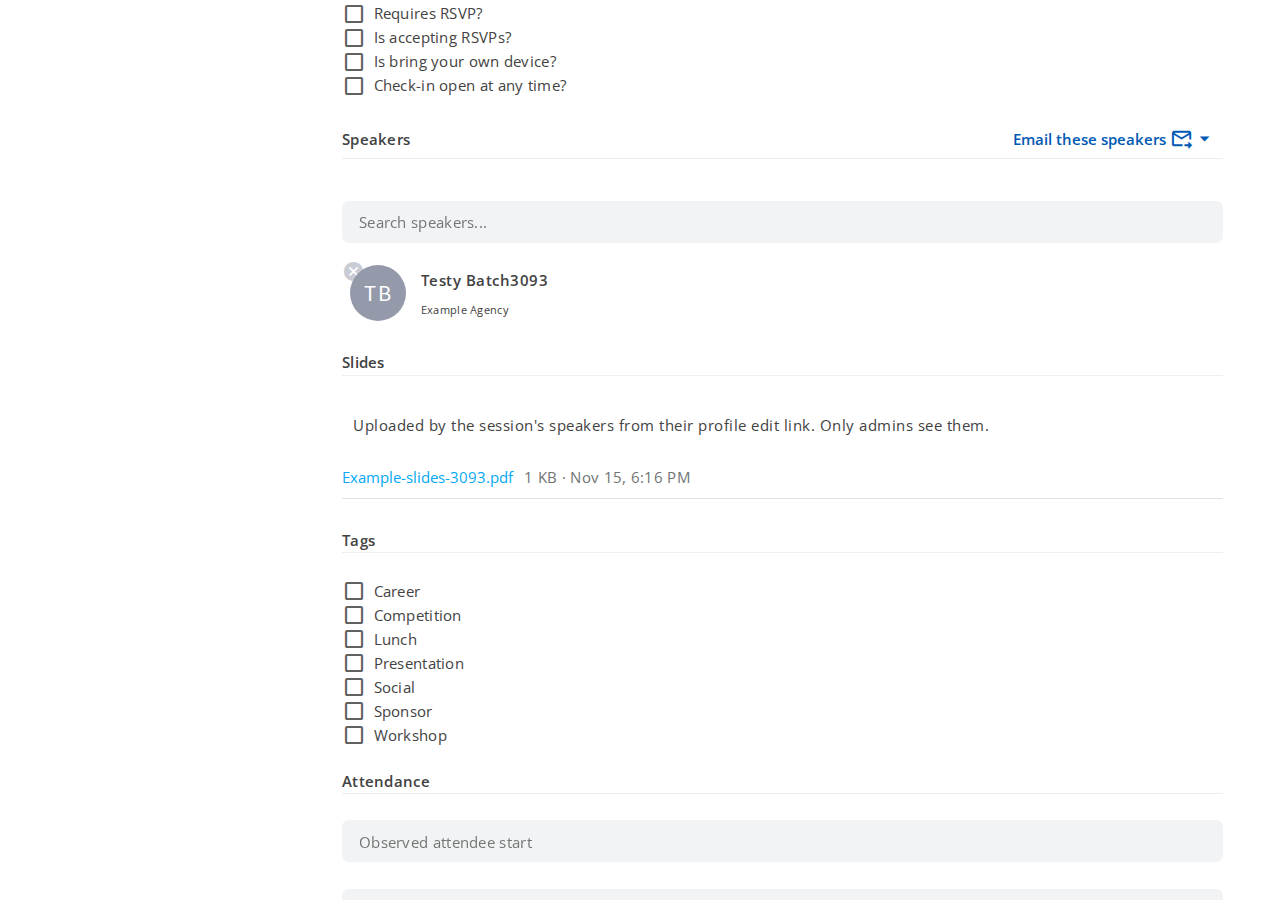
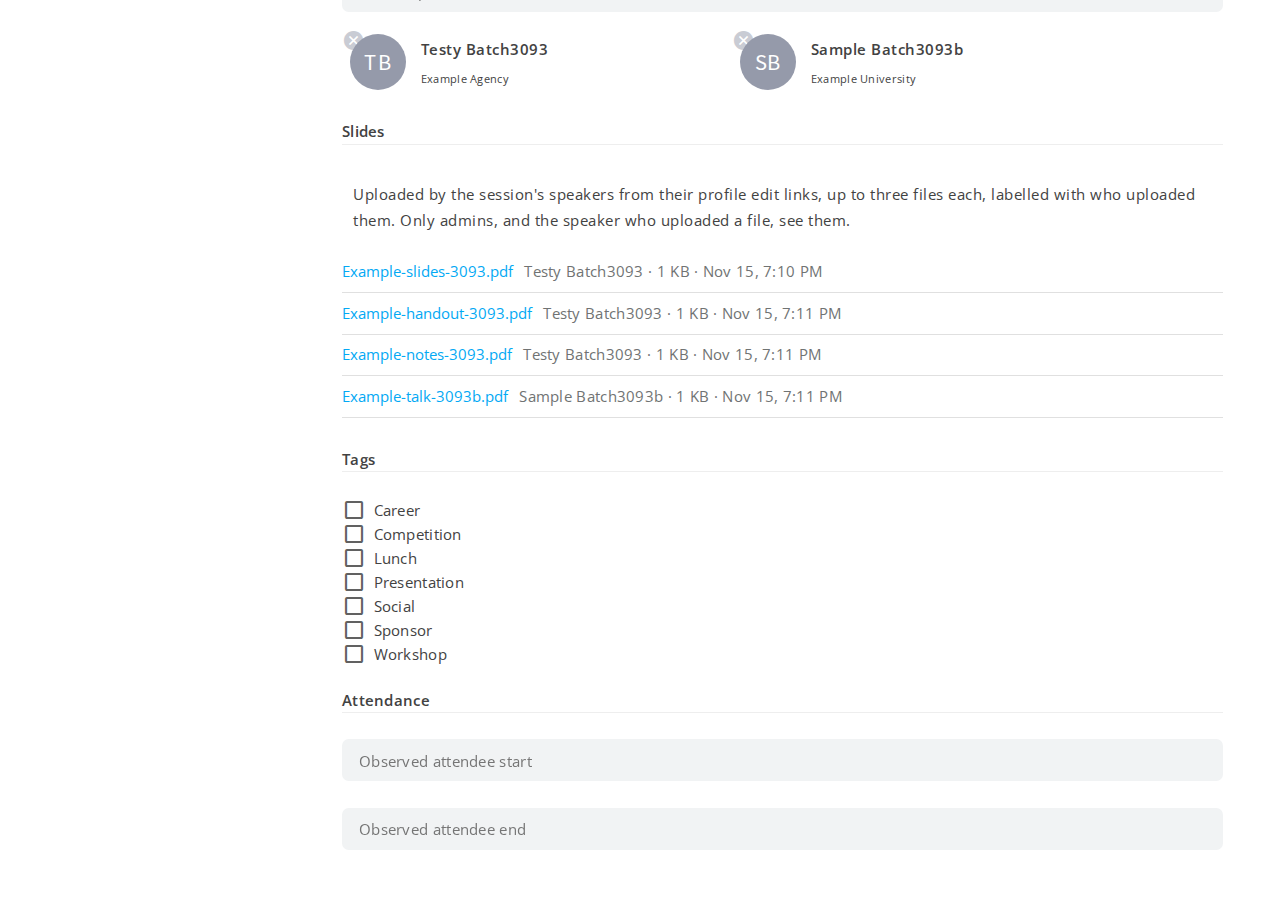
docs(gisday-angular): Release note and screenshots for each speaker's own slides (#3093)
The release note says the decided rules: each speaker uploads their own slides, up to three a
session, each with its own Remove, sees only their own, no deadline; admins see every speaker's,
labelled with who uploaded each; and the migration's second column, assets.uploadedByGuid.

After at f9addc77f on the local site (txgisday.org), with two made-up speakers on one made-up
session, made-up edit tokens and four tiny made-up PDFs, AddSessionFiles run locally. Replaced:
after-edit-link-sessions, -uploaded, -full, -390 and after-admin-session-slides (both speakers'
files, labelled). Added: after-edit-link-three-files (no upload at three) and
after-edit-link-other-speaker (the second speaker sees only their own). The before images and
the Events list images are unchanged. The only writes allowed were four uploads and their four
removals; nothing was blocked. Every row and file was then deleted, the tables compared equal
to their snapshot, and the migration reverted.

diff --git a/docs/releases/unreleased/3093-speaker-slides.md b/docs/releases/unreleased/3093-speaker-slides.md
@@ -2,7 +2,7 @@
 issue: 3093
 title: "GIS Day: speakers upload their sessions' slides from their edit link, and admins see them"
 testOnDev: |
-  | GIS Day: speakers upload their slides from their edit link ([#3093](https://github.com/TamuGeoInnovation/Tamu.GeoInnovation.js.monorepo/issues/3093)) | Not on dev: GIS Day has no dev site. After release, open a test speaker's edit link (from a profile or session details email), then as an admin that session under [Events](https://txgisday.org/admin/events) | Under the profile, **Your sessions** lists each session the speaker presents this season with its day, time and room. **Upload slides** takes a PDF or PowerPoint up to 100 MB and shows its name, size and time at once; **Replace** swaps it and **Remove** takes it away. A .docx is refused in words. The session's admin page has a **Slides** section whose file name downloads the original; the Events list has a **Slides** column (the upload date, or None) and **Only sessions with no slides** |
+  | GIS Day: speakers upload their slides from their edit link ([#3093](https://github.com/TamuGeoInnovation/Tamu.GeoInnovation.js.monorepo/issues/3093)) | Not on dev: GIS Day has no dev site. After release, open two test speakers' edit links for the same session (from a profile or session details email), then as an admin that session under [Events](https://txgisday.org/admin/events) | Under the profile, **Your sessions** lists each session the speaker presents this season with its day, time and room. **Upload slides** takes a PDF or PowerPoint up to 100 MB and shows its name, size and time at once, beside any already there, up to three files a session, each with its own **Remove**; with three, there is no upload. The second speaker sees none of the first's files and uploads their own. A .docx is refused in words. The session's admin page has a **Slides** section listing every speaker's files, each with who uploaded it, whose file name downloads the original; the Events list has a **Slides** column (the upload date, or None) and **Only sessions with no slides** |
 ---
 
 ### GIS Day: speakers upload their sessions' slides from their edit link, and admins see them
@@ -11,27 +11,36 @@ Session speakers can now send their slides from the private link they already ge
 no account and no sign-in, as competition finalists send their files.
 
 - **Your sessions**, under the profile on the edit-link page, lists each session the speaker presents this season, with
-  its day, time and room. Each has its slides: **Upload slides** (PDF or PowerPoint, up to 100 MB), what is uploaded
-  now with its name, size and when, **Replace** and **Remove**. An upload is kept at once, with no approval, and only
-  the GIS Day team can see it (decided 15 November 2026).
-- A link reaches only its own speaker's sessions. The files are received, checked and kept exactly as competition
-  submissions' files are, with the same rules and the same words when a file is refused.
-- **Admins** see the slides in a new **Slides** section on the session's page, where the file name downloads the
-  original, and in the **Events** list: a **Slides** column with the date they came, or None, and **Only sessions with
-  no slides**, to see which sessions are still to send theirs.
+  its day, time and room. Each has the speaker's own slides: **Upload slides** (PDF or PowerPoint, up to 100 MB), and
+  what they have uploaded with its name, size and when, each with its own **Remove**. Each speaker uploads their own,
+  **up to three files for each session**; a fourth is refused with the reason. An upload is kept at once, with no
+  approval and no deadline, and only the speaker who uploaded it and the GIS Day team can see it (decided 15 November
+  2026).
+- A speaker sees and removes **only their own files**: another speaker on the same session uploads theirs separately,
+  and neither sees the other's. A link reaches only its own speaker's sessions and files. The files are received,
+  checked and kept exactly as competition submissions' files are, with the same rules and the same words when a file is
+  refused.
+- **Admins** see every speaker's files in a new **Slides** section on the session's page, **each labelled with who
+  uploaded it**, where the file name downloads the original, and in the **Events** list: a **Slides** column with the
+  date they came, or None, and **Only sessions with no slides**, to see which sessions are still to send theirs. A
+  session has slides when any of its speakers has uploaded one.
 
-**Before deploying:** the database needs the migration `AddSessionFiles1794786922753` (a nullable `assets.eventGuid`
-with a foreign key to `events`), run on production by `6. GIS Day/migrations/migrate-prod-3093.ps1` in
-kubernetes-config, which needs `AddBroadcastPlace1794772810966` ([#3048](https://github.com/TamuGeoInnovation/Tamu.GeoInnovation.js.monorepo/issues/3048)) first.
+**Before deploying:** the database needs the migration `AddSessionFiles1794786922753`, which adds two nullable columns
+to `assets`: `eventGuid`, with a foreign key to `events` that deletes a session's slides with the session, and
+`uploadedByGuid`, the speaker who uploaded each file, with a foreign key to `speakers` that keeps the file if the speaker
+is deleted. It is run on production by `6. GIS Day/migrations/migrate-prod-3093.ps1` in kubernetes-config, which needs
+`AddBroadcastPlace1794772810966` ([#3048](https://github.com/TamuGeoInnovation/Tamu.GeoInnovation.js.monorepo/issues/3048)) first.
 
 ([#3093](https://github.com/TamuGeoInnovation/Tamu.GeoInnovation.js.monorepo/issues/3093))
 
-| On the local site, with a made-up test speaker and sessions | Before                                                                                                  | After                                                                                                                                       |
-| ----------------------------------------------------------- | ------------------------------------------------------------------------------------------------------- | ------------------------------------------------------------------------------------------------------------------------------------------- |
-| The speaker's edit-link page                                | ![The profile form and nothing about sessions](../screenshots/3093-speaker-slides/before-edit-link.png) | ![Your sessions under the profile, each session with Upload slides](../screenshots/3093-speaker-slides/after-edit-link-sessions.png)        |
-| After an upload                                             |                                                                                                         | ![The PDF's name, size and time, with Remove and Replace](../screenshots/3093-speaker-slides/after-edit-link-uploaded.png)                  |
-| The whole page                                              |                                                                                                         | ![The profile, then Your sessions](../screenshots/3093-speaker-slides/after-edit-link-full.png)                                             |
-| On a phone, 390 px                                          | ![The profile form only](../screenshots/3093-speaker-slides/before-edit-link-390.png)                   | ![Your sessions at phone width](../screenshots/3093-speaker-slides/after-edit-link-390.png)                                                 |
-| The session's admin page                                    | ![Speakers, then Tags](../screenshots/3093-speaker-slides/before-admin-session.png)                     | ![A Slides section with the file, which downloads](../screenshots/3093-speaker-slides/after-admin-session-slides.png)                       |
-| The admin Events list                                       |                                                                                                         | ![A Slides column: the upload date for one session, None for the other](../screenshots/3093-speaker-slides/after-admin-sessions-slides.png) |
-| Only sessions with no slides                                |                                                                                                         | ![Only the session without slides](../screenshots/3093-speaker-slides/after-admin-sessions-no-slides.png)                                   |
+| On the local site, with made-up test speakers and sessions | Before                                                                                                  | After                                                                                                                                                  |
+| ---------------------------------------------------------- | ------------------------------------------------------------------------------------------------------- | ------------------------------------------------------------------------------------------------------------------------------------------------------ |
+| The speaker's edit-link page                               | ![The profile form and nothing about sessions](../screenshots/3093-speaker-slides/before-edit-link.png) | ![Your sessions under the profile, each session with Upload slides and up to 3 files](../screenshots/3093-speaker-slides/after-edit-link-sessions.png) |
+| After an upload                                            |                                                                                                         | ![The PDF's name, size and time, with Remove, and Upload slides for another](../screenshots/3093-speaker-slides/after-edit-link-uploaded.png)          |
+| Three files on a session                                   |                                                                                                         | ![Three files, each with its own Remove, and no upload](../screenshots/3093-speaker-slides/after-edit-link-three-files.png)                            |
+| Another speaker on the same session                        |                                                                                                         | ![The second speaker's own file only](../screenshots/3093-speaker-slides/after-edit-link-other-speaker.png)                                            |
+| The whole page                                             |                                                                                                         | ![The profile, then Your sessions](../screenshots/3093-speaker-slides/after-edit-link-full.png)                                                        |
+| On a phone, 390 px                                         | ![The profile form only](../screenshots/3093-speaker-slides/before-edit-link-390.png)                   | ![Your sessions at phone width](../screenshots/3093-speaker-slides/after-edit-link-390.png)                                                            |
+| The session's admin page                                   | ![Speakers, then Tags](../screenshots/3093-speaker-slides/before-admin-session.png)                     | ![A Slides section with both speakers' files, each labelled with who uploaded it](../screenshots/3093-speaker-slides/after-admin-session-slides.png)   |
+| The admin Events list                                      |                                                                                                         | ![A Slides column: the upload date for one session, None for the other](../screenshots/3093-speaker-slides/after-admin-sessions-slides.png)            |
+| Only sessions with no slides                               |                                                                                                         | ![Only the session without slides](../screenshots/3093-speaker-slides/after-admin-sessions-no-slides.png)                                              |
